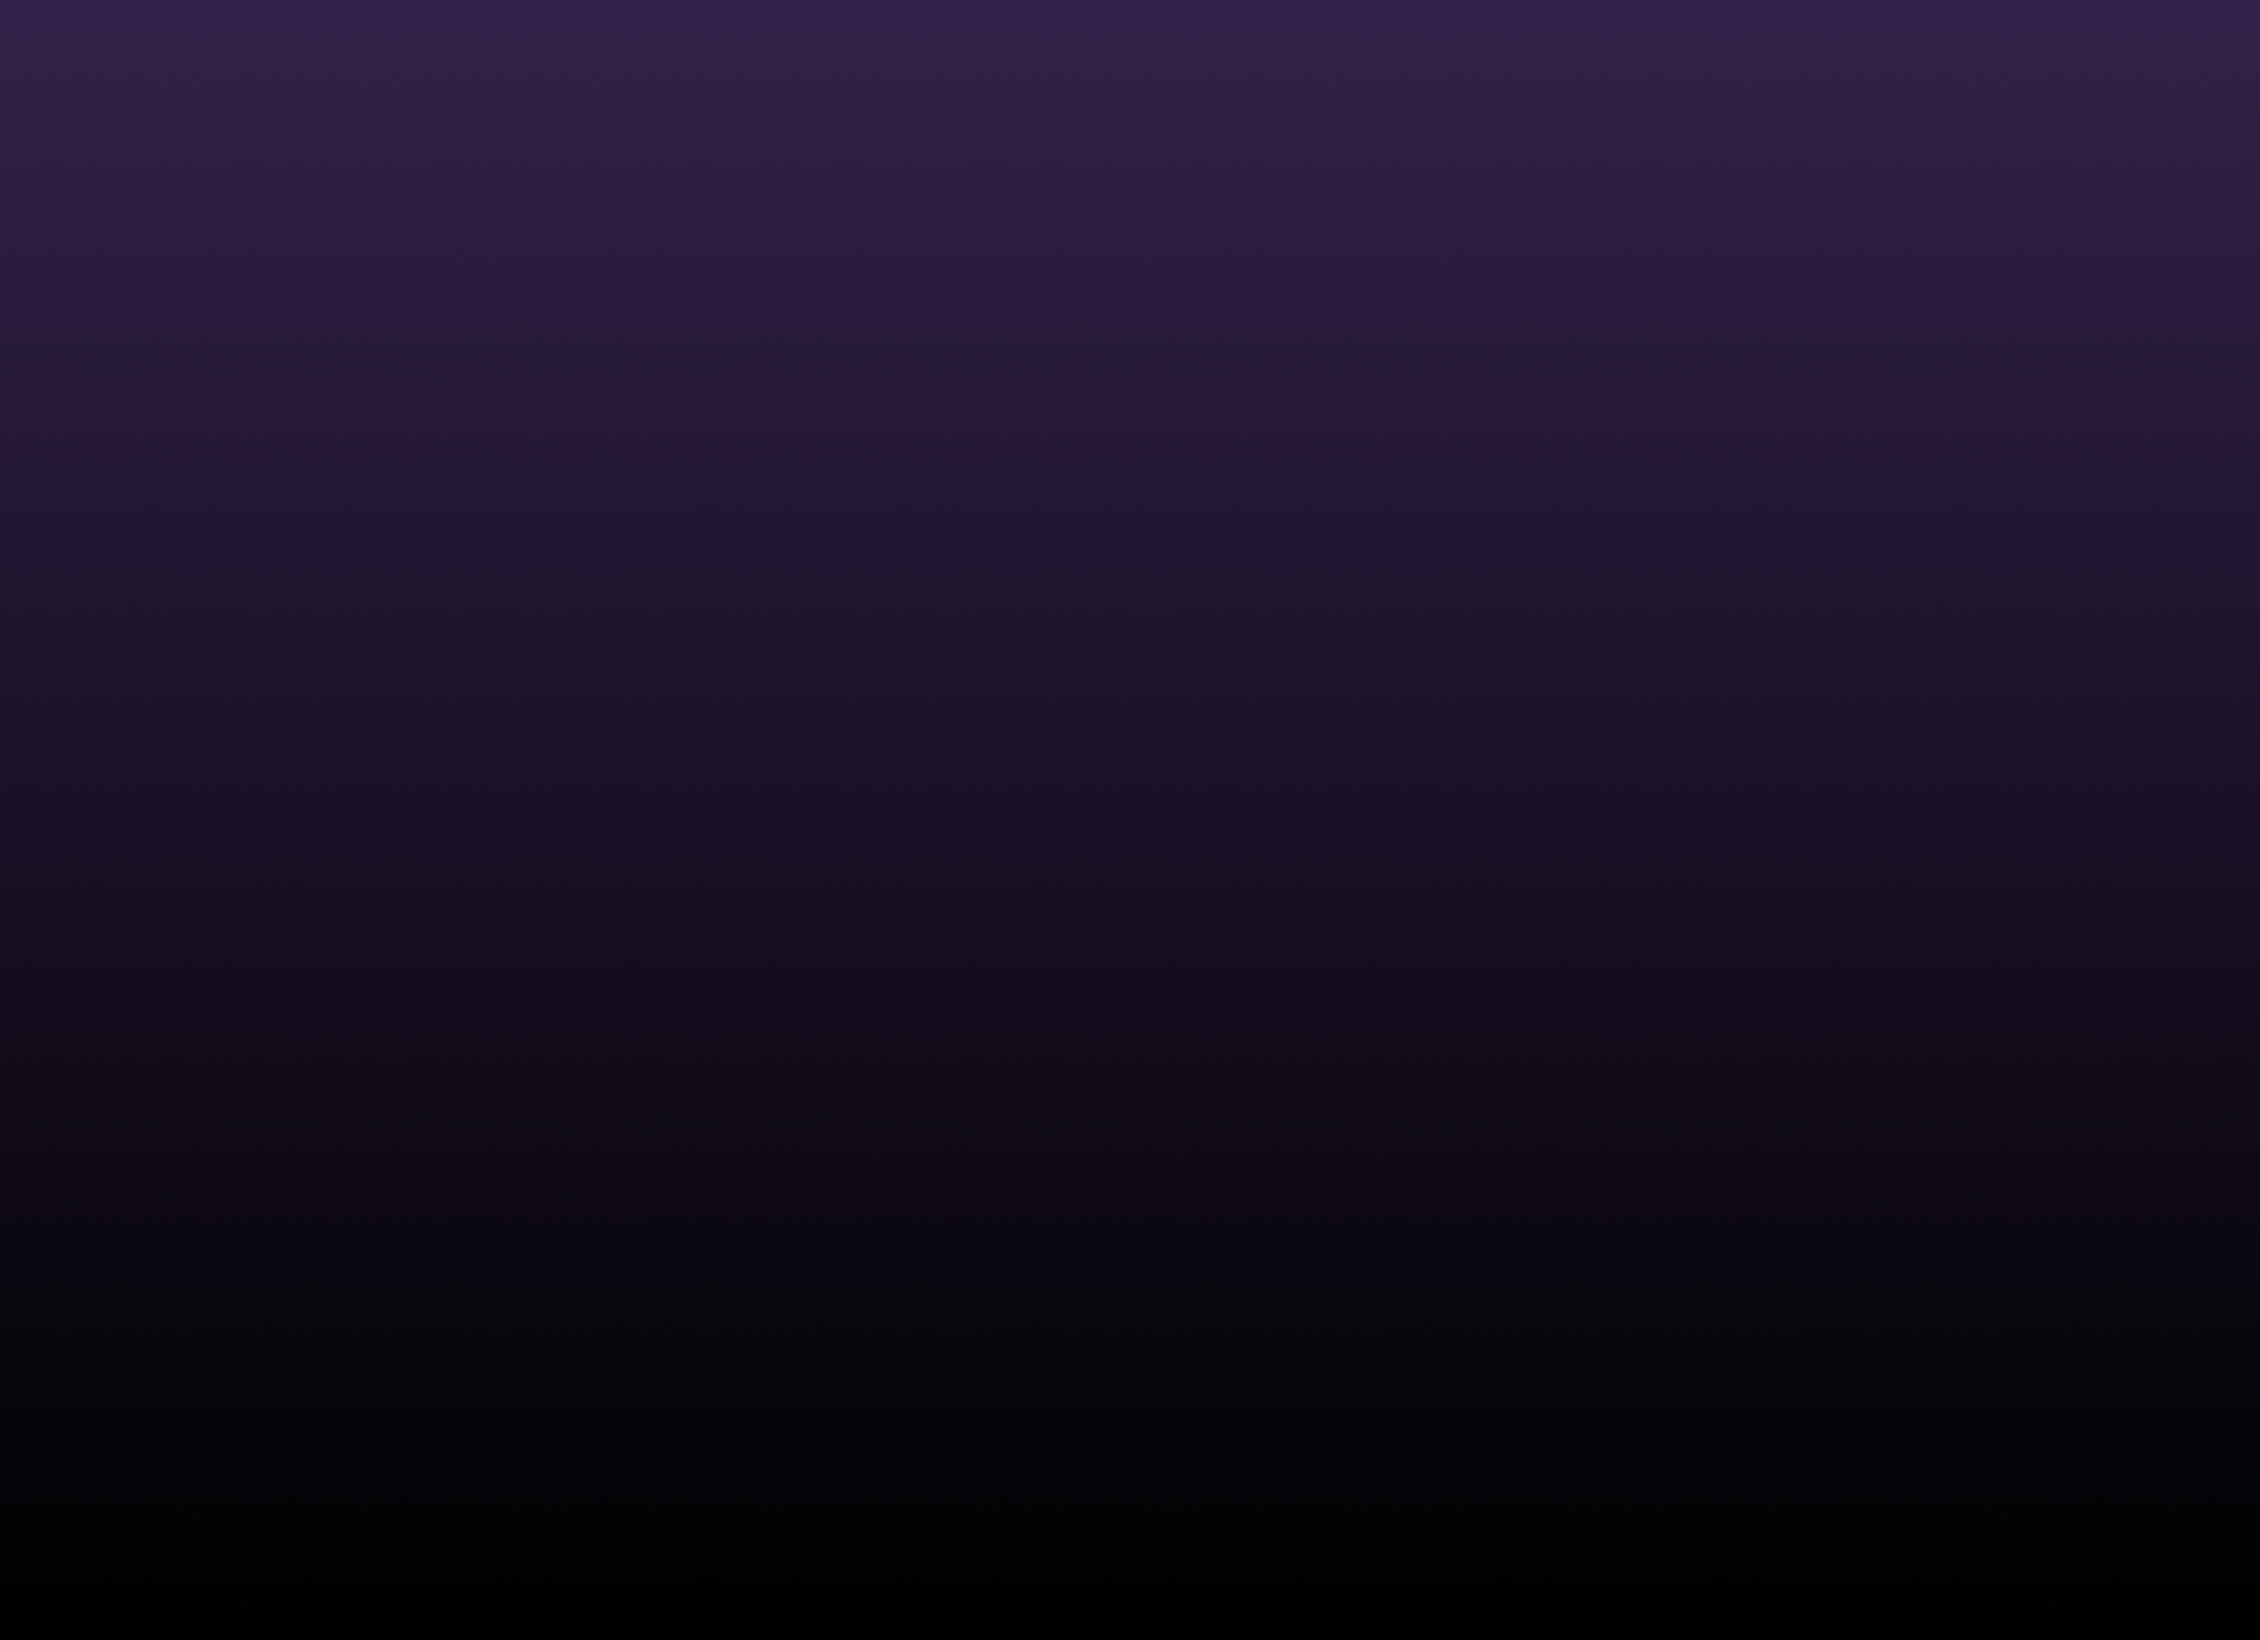
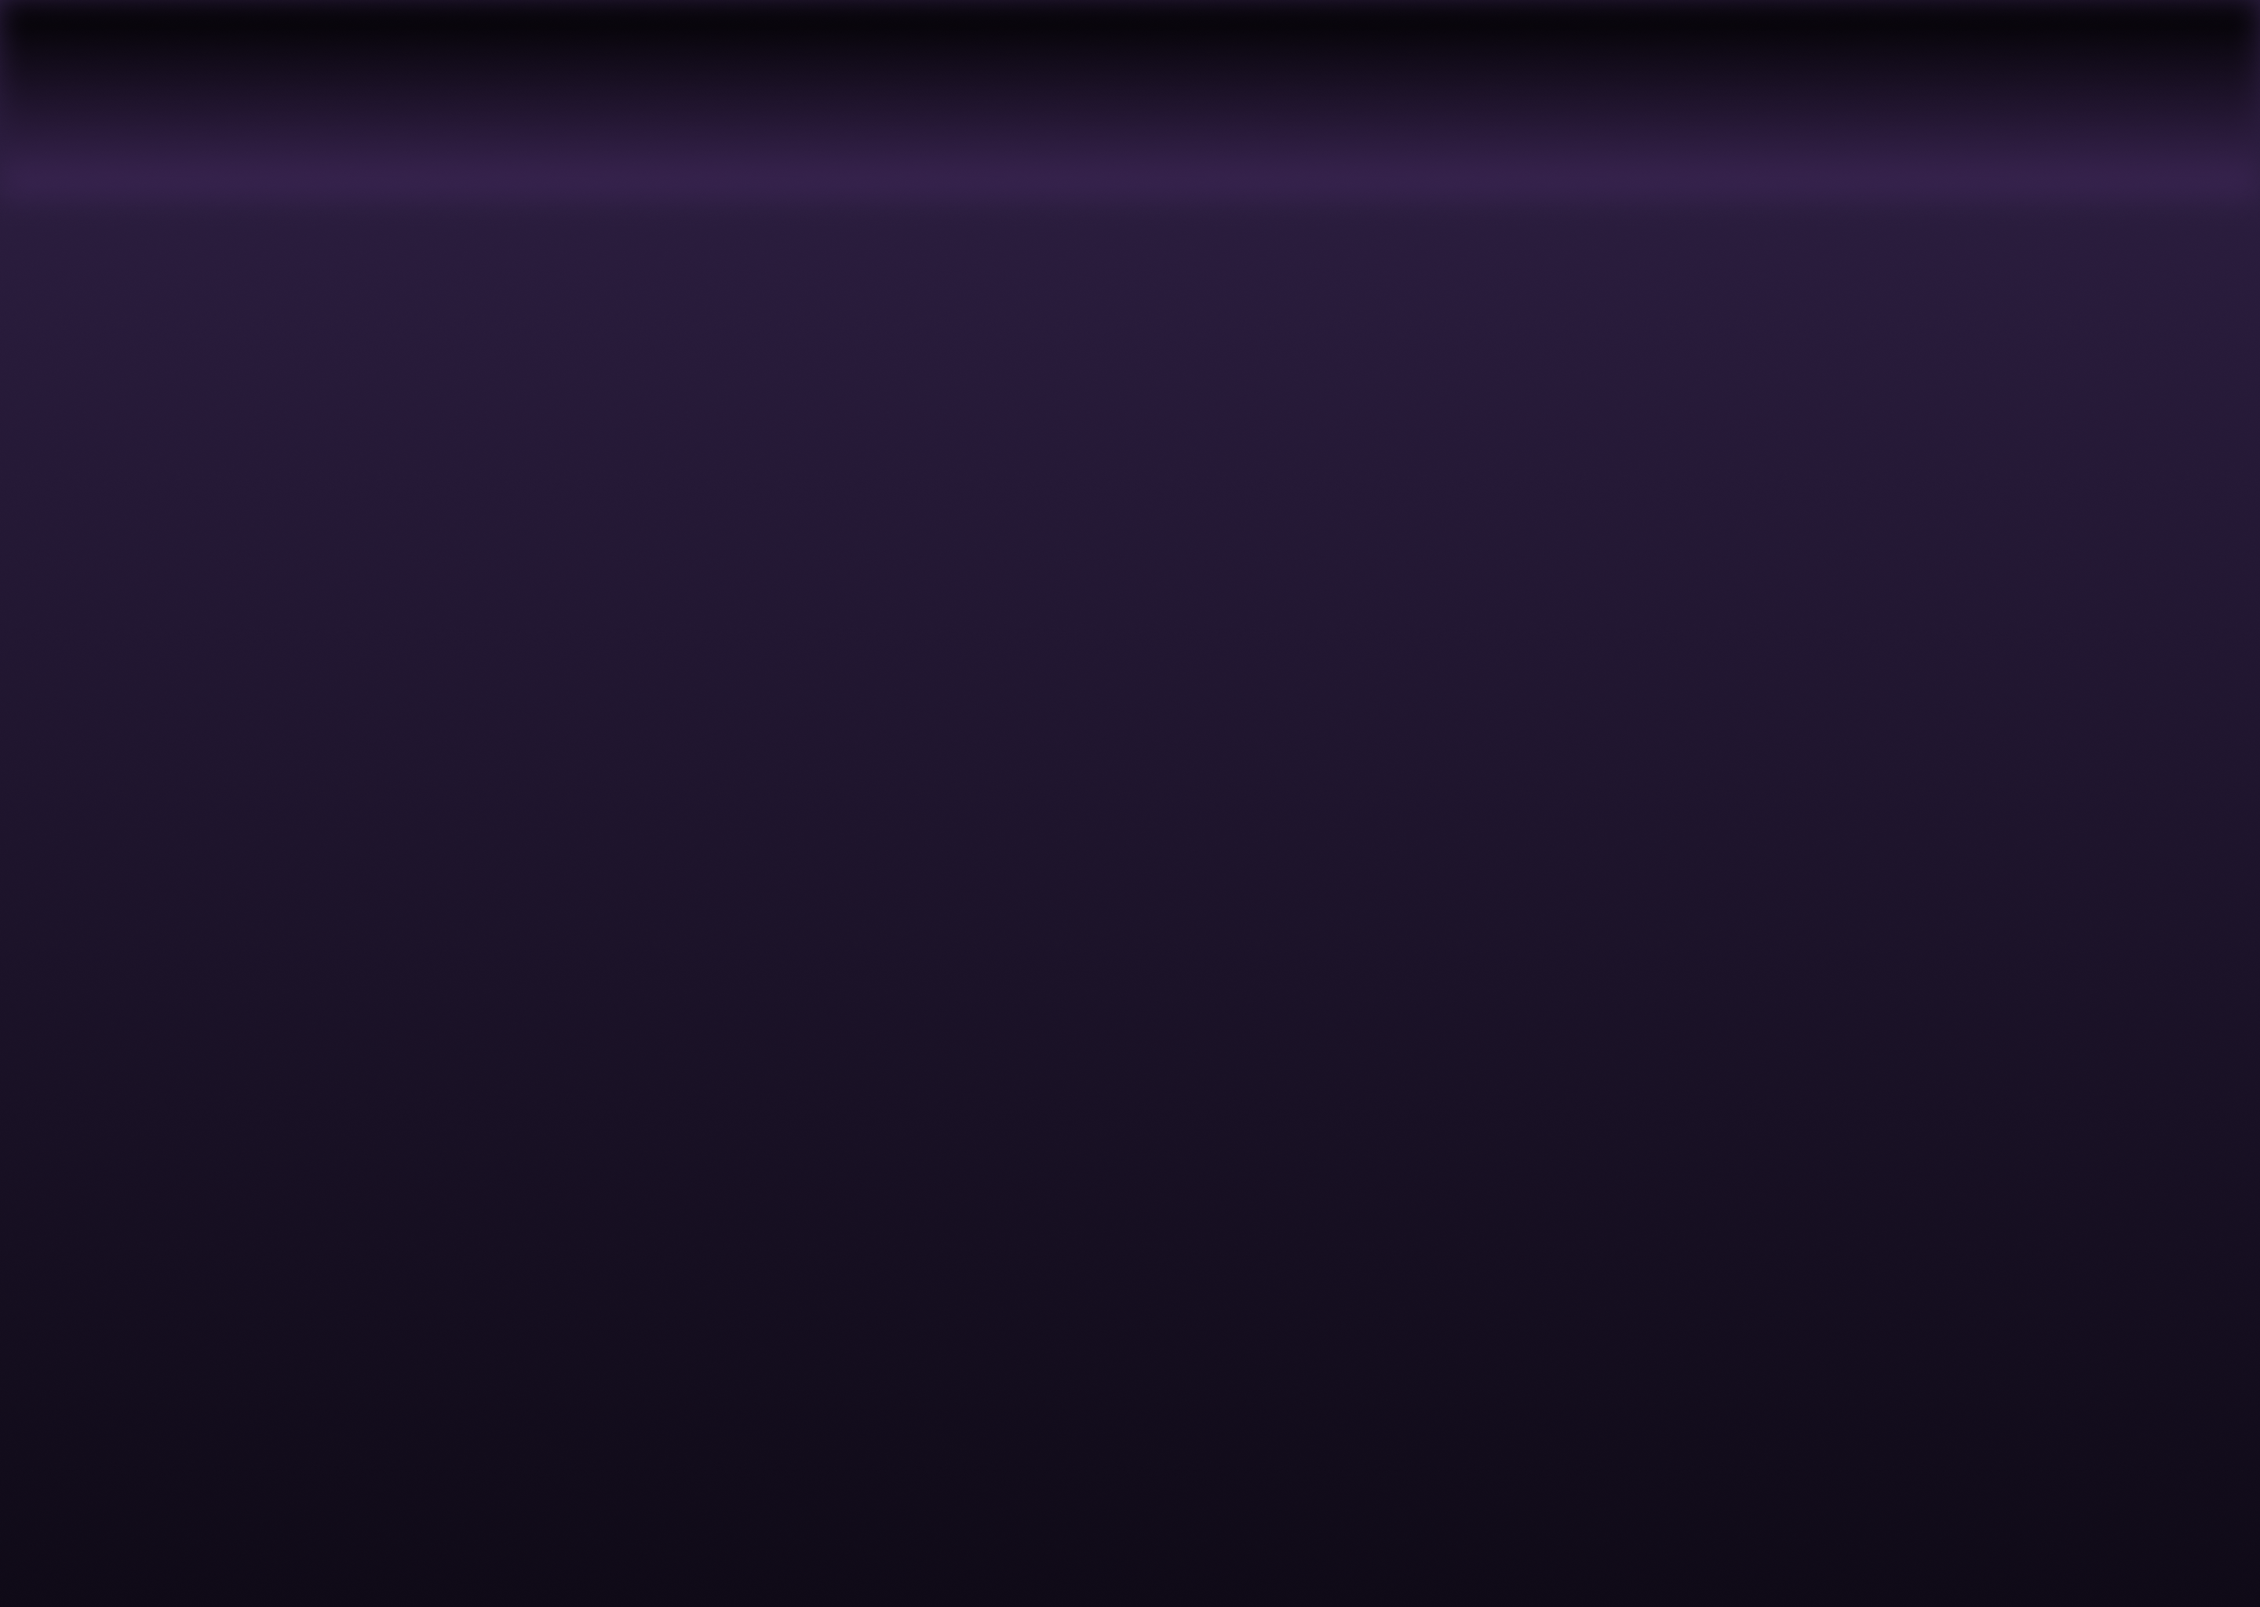
Final changes

Changed region(s): [[0.0, 0.0, 1.0, 0.0625]]

diff --git a/src/Components/UserCalculations/SpeedAcceleration/SpeedAccelerationStyle.js b/src/Components/UserCalculations/SpeedAcceleration/SpeedAccelerationStyle.js
@@ -46,7 +46,7 @@ export const useStyles = makeStyles((theme) => ({
       paddingTop: "5rem",
     },
     ["@media (max-width: 450px)"]: {
-      paddingTop: "1rem",
+      paddingTop: "2.5rem",
     },
   },
   SpeedChartimg: {
@@ -67,7 +67,7 @@ export const useStyles = makeStyles((theme) => ({
       paddingTop: "5rem",
     },
     ["@media (max-width:450px)"]: {
-      paddingTop: "0rem",
+      paddingTop: "1rem",
     },
   },
 
@@ -78,15 +78,28 @@ export const useStyles = makeStyles((theme) => ({
   },
   Chart: {
     marginTop: 25,
+    ["@media (max-width: 500px)"]: {
+      width: "270px !important",
+    },
+    ["@media (max-width: 420px)"]: {
+      width: "230px !important",
+    },
   },
   Img: {
     width: 82,
     height: 280,
+    ["@media (max-width: 500px)"]: {
+      width: 60,
+      height: 250,
+    },
+    ["@media (max-width: 420px)"]: {
+      height: 240,
+    },
   },
   ChartBottomText: {
     display: "flex",
     justifyContent: "space-between",
-    marginTop: -80,
+    marginTop: -100,
   },
   BottomText: {
     color: "#797979",
@@ -104,6 +117,9 @@ export const useStyles = makeStyles((theme) => ({
     fontWeight: 400,
     margin: 0,
     textAlign: "center",
+    ["@media (max-width: 420px)"]: {
+      fontSize: theme.fonts.sizes.fontL,
+    },
   },
   SpeedNumber: {
     color: theme.colors.primary.white,
@@ -130,6 +146,9 @@ export const useStyles = makeStyles((theme) => ({
   },
   TextWrapper: {
     marginTop: -90,
+    ["@media (max-width: 420px)"]: {
+      marginTop: -70,
+    },
   },
   AccelerationWrapper: {
     marginTop: 10,

diff --git a/src/Components/UserPositions/UserPositionsStyle.js b/src/Components/UserPositions/UserPositionsStyle.js
@@ -3,18 +3,18 @@ import ResponsiveBG from "../../assets/ResponsiveBG.png";
 
 export const useStyles = makeStyles((theme) => ({
   MainContainer: {
-    ["@media (max-width: 937px)"]: {
-      backgroundImage: `url(${ResponsiveBG})`,
-      width: "100%",
-      height: "100%",
-      minHeight: 980,
-      backgroundSize: "100% 100%",
-      backgroundRepeat: "no-repeat",
-      ["@media (max-width: 872px)"]: {
-        backgroundSize: "100% 100%",
-        minHeight: "100%",
-      },
-    },
+    // ["@media (max-width: 937px)"]: {
+    //   backgroundImage: `url(${ResponsiveBG})`,
+    //   width: "100%",
+    //   height: "100%",
+    //   minHeight: 980,
+    //   backgroundSize: "100% 100%",
+    //   backgroundRepeat: "no-repeat",
+    //   ["@media (max-width: 872px)"]: {
+    //     backgroundSize: "100% 100%",
+    //     minHeight: "100%",
+    //   },
+    // },
   },
   Wrapper: {
     display: "flex",

diff --git a/src/Components/UserLongPassGkReaction/UserLongPassGkReactionStyle.js b/src/Components/UserLongPassGkReaction/UserLongPassGkReactionStyle.js
@@ -1,17 +1,17 @@
 import { makeStyles } from "@material-ui/core/styles";
-import Bg3 from "../../assets/Bg3.png";
+// import Bg3 from "../../assets/Bg3.png";
 
 export const useStyles = makeStyles((theme) => ({
   MainContainer: {
-    backgroundImage: `url(${Bg3})`,
-    width: "100%",
-    minHeight: 1024,
-    backgroundSize: "100% 100%",
-    backgroundRepeat: "no-repeat",
-    ["@media (max-width: 872px)"]: {
-      backgroundSize: "100% 100%",
-      minHeight: "100%",
-    },
+    // backgroundImage: `url(${Bg3})`,
+    // width: "100%",
+    // minHeight: 1024,
+    // backgroundSize: "100% 100%",
+    // backgroundRepeat: "no-repeat",
+    // ["@media (max-width: 872px)"]: {
+    //   backgroundSize: "100% 100%",
+    //   minHeight: "100%",
+    // },
   },
   ComWrapper: {
     display: "flex",

diff --git a/src/Components/UserPerfomance/UserPerfomanceStyle.js b/src/Components/UserPerfomance/UserPerfomanceStyle.js
@@ -3,16 +3,16 @@ import Bg2 from "../../assets/Bg2.png";
 
 export const useStyles = makeStyles((theme) => ({
   MainContainer: {
-    backgroundImage: `url(${Bg2})`,
-    width: "100%",
-    height: "100%",
-    minHeight: 980,
-    backgroundSize: "100% 100%",
-    backgroundRepeat: "no-repeat",
-    ["@media (max-width: 872px)"]: {
-      backgroundSize: "100% 100%",
-      minHeight: "100%",
-    },
+    // backgroundImage: `url(${Bg2})`,
+    // width: "100%",
+    // height: "100%",
+    // minHeight: 980,
+    // backgroundSize: "100% 100%",
+    // backgroundRepeat: "no-repeat",
+    // ["@media (max-width: 872px)"]: {
+    //   backgroundSize: "100% 100%",
+    //   minHeight: "100%",
+    // },
   },
   ComWrapper: {
     display: "flex",

diff --git a/src/Components/UserCalculations/UserCalculationsStyle.js b/src/Components/UserCalculations/UserCalculationsStyle.js
@@ -3,15 +3,15 @@ import Bg2 from "../../assets/Bg2.png";
 
 export const useStyles = makeStyles((theme) => ({
   MainContainer: {
-    backgroundImage: `url(${Bg2})`,
-    width: "100%",
-    minHeight: 1024,
-    backgroundSize: "100% 100%",
-    backgroundRepeat: "no-repeat",
-    ["@media (max-width: 872px)"]: {
-      backgroundSize: "100% 100%",
-      minHeight: "100%",
-    },
+    // backgroundImage: `url(${Bg2})`,
+    // width: "100%",
+    // minHeight: 1024,
+    // backgroundSize: "100% 100%",
+    // backgroundRepeat: "no-repeat",
+    // ["@media (max-width: 872px)"]: {
+    //   backgroundSize: "100% 100%",
+    //   minHeight: "100%",
+    // },
   },
   ComWrapper: {
     display: "flex",

diff --git a/src/Components/UserCalculations/SpeedAcceleration/SpeedAcceleration.js b/src/Components/UserCalculations/SpeedAcceleration/SpeedAcceleration.js
@@ -1,7 +1,6 @@
 import React from "react";
 import Clock from "../../../assets/Clock.png";
 import SpeedChart from "../SpeedAcceleration/SpeedChart";
-// import SpeedChart from "../../../assets/speedChart.png";
 import ScoreBoard from "../../ResuableComponents/ScoreBoard/ScoreBoard";
 import { useStyles } from "./SpeedAccelerationStyle";
 
@@ -17,7 +16,6 @@ const SpeedAcceleration = () => {
       </div>
       <div className={classes.ChartWrapper}>
         <SpeedChart />
-        {/* <img src={SpeedChart} alt="" className={classes.SpeedChartimg} /> */}
       </div>
       <div className={classes.Wrapper}>
         <ScoreBoard />

diff --git a/src/Pages/HomePage/HomePage.js b/src/Pages/HomePage/HomePage.js
@@ -30,14 +30,16 @@ const HomePage = () => {
   const classes = useStyles();
 
   return (
-    <div className={classes.MainContianer}>
+    <div>
       <UserProfile />
-      <UserCalculations />
-      <UserPositions />
-      <UserPerfomance />
-      <UserAgilityAndDribble />
-      <UserLongPassGkReaction />
-      <Footer />
+      <div className={classes.MainContianer}>
+        <UserCalculations />
+        <UserPositions />
+        <UserPerfomance />
+        <UserAgilityAndDribble />
+        <UserLongPassGkReaction />
+        <Footer />
+      </div>
     </div>
   );
 };

diff --git a/src/Pages/HomePage/HomeStyle.js b/src/Pages/HomePage/HomeStyle.js
@@ -1,3 +1,18 @@
 import { makeStyles } from "@material-ui/core/styles";
+import Bg2 from "../../assets/Bg2.png";
 
-export const useStyles = makeStyles((theme) => ({}));
+export const useStyles = makeStyles((theme) => ({
+  MainContianer: {
+    backgroundImage: `url(${Bg2})`,
+    width: "100%",
+    minHeight: 1024,
+    backgroundSize: "100% 100%",
+    backgroundRepeat: "no-repeat",
+    position: "absolute",
+    zIndex: 99999,
+    ["@media (max-width: 872px)"]: {
+      backgroundSize: "100% 100%",
+      minHeight: "100%",
+    },
+  },
+}));

diff --git a/src/Components/UserAgility&Dribble/UserAgilityAndDribbleStyle.js b/src/Components/UserAgility&Dribble/UserAgilityAndDribbleStyle.js
@@ -3,10 +3,10 @@ import Bg2 from "../../assets/Bg2.png";
 
 export const useStyle = makeStyles((theme) => ({
   Wrapper: {
-    backgroundImage: `url(${Bg2})`,
-    width: "100%",
-    backgroundSize: "100% 100%",
-    backgroundRepeat: "no-repeat",
+    // backgroundImage: `url(${Bg2})`,
+    // width: "100%",
+    // backgroundSize: "100% 100%",
+    // backgroundRepeat: "no-repeat",
   },
   header: {
     display: "flex",

diff --git a/src/Components/UserPositions/ShortPass/ShortPass.js b/src/Components/UserPositions/ShortPass/ShortPass.js
@@ -19,8 +19,16 @@ const ShortPass = () => {
     );
   };
 
+  const Touches = async () => {
+    const Touches = await StatisticAPI.getTSPlayerStatisticTouches(
+      location.state.id,
+      location.state.trainingSessionID
+    );
+  };
+
   useEffect(() => {
     ShortPass();
+    Touches();
   }, [location.state.id, location.state.trainingSessionID]);
 
   return (

diff --git a/src/Components/UserPerfomance/Stamina/Average.js b/src/Components/UserPerfomance/Stamina/Average.js
@@ -14,6 +14,7 @@ const Average = () => {
       location.state.id,
       location.state.trainingSessionID
     );
+    console.log(playerStamina, "playerStamina");
   };
 
   useEffect(() => {
